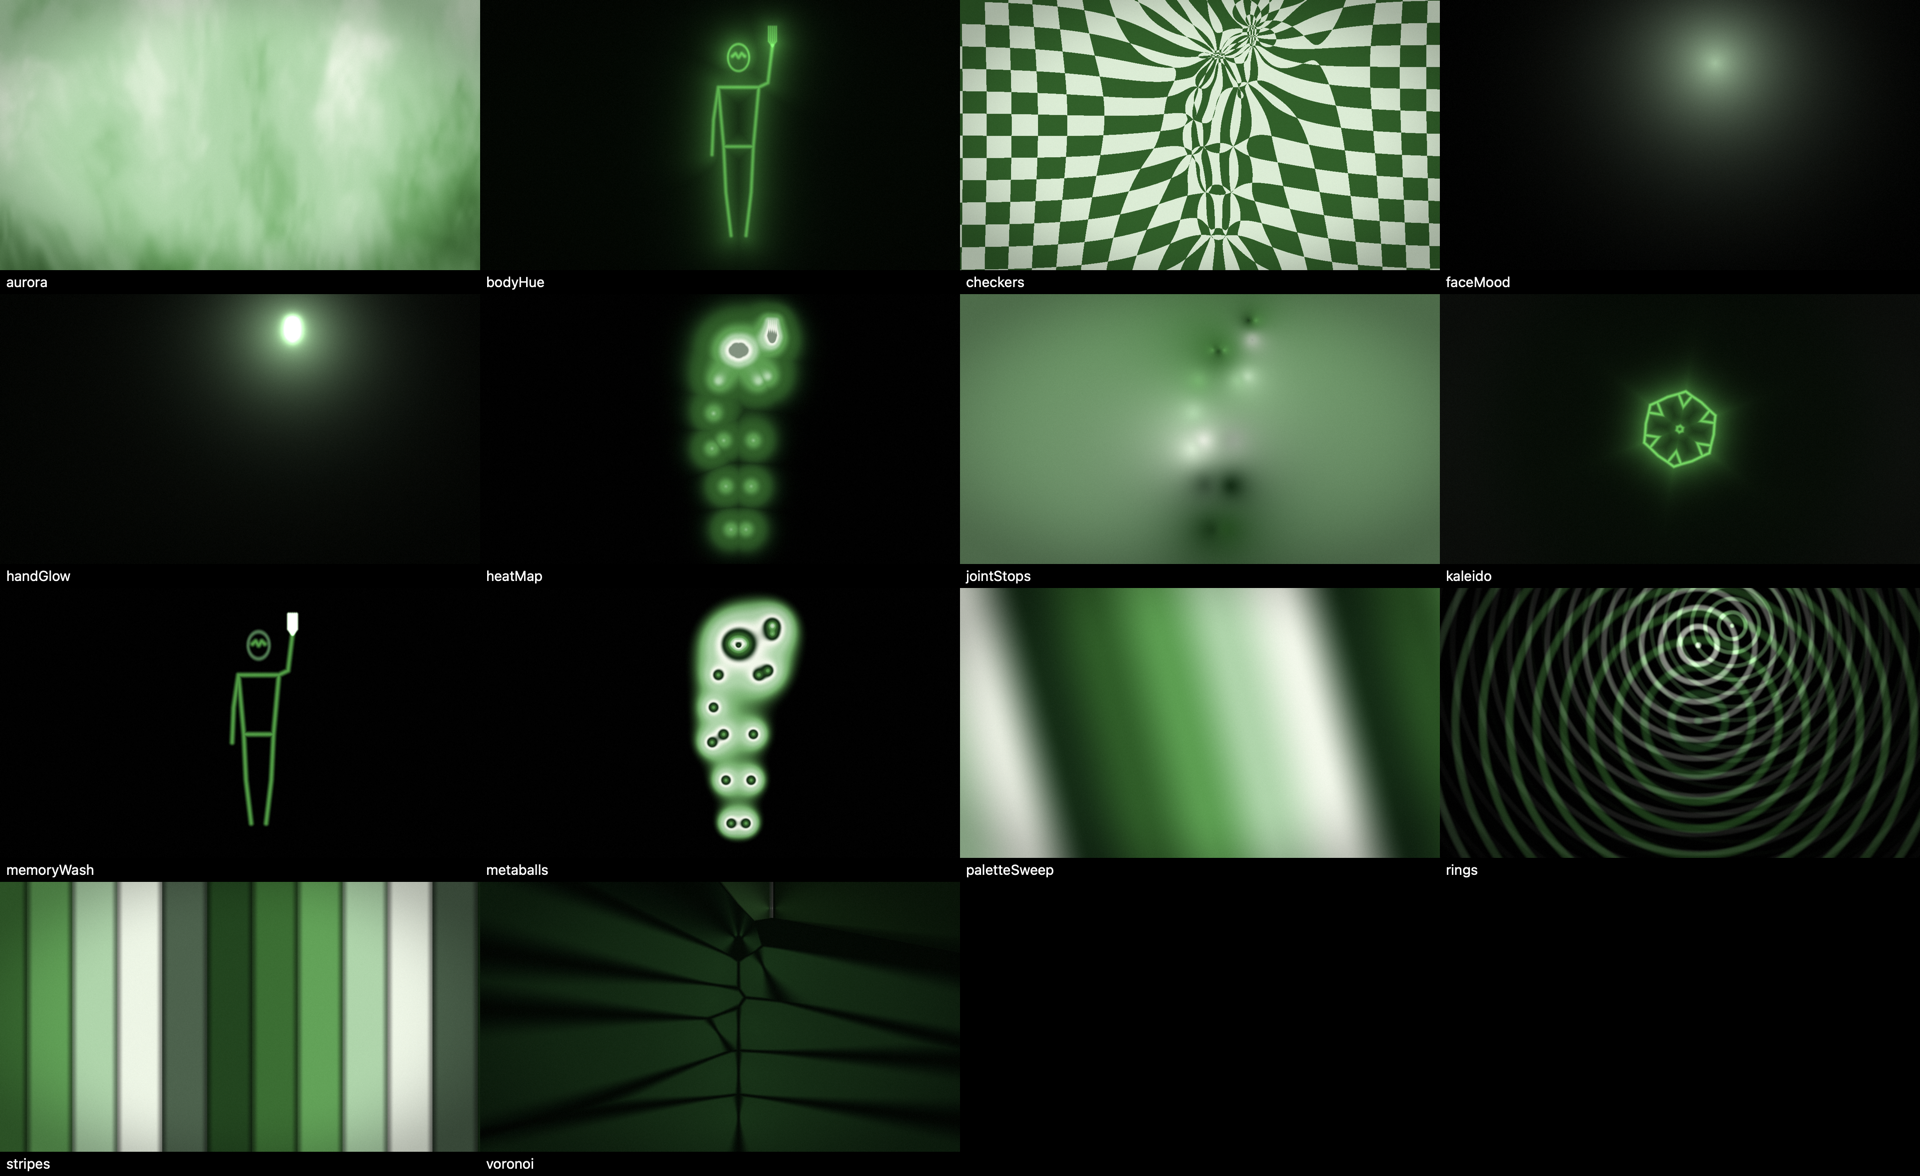
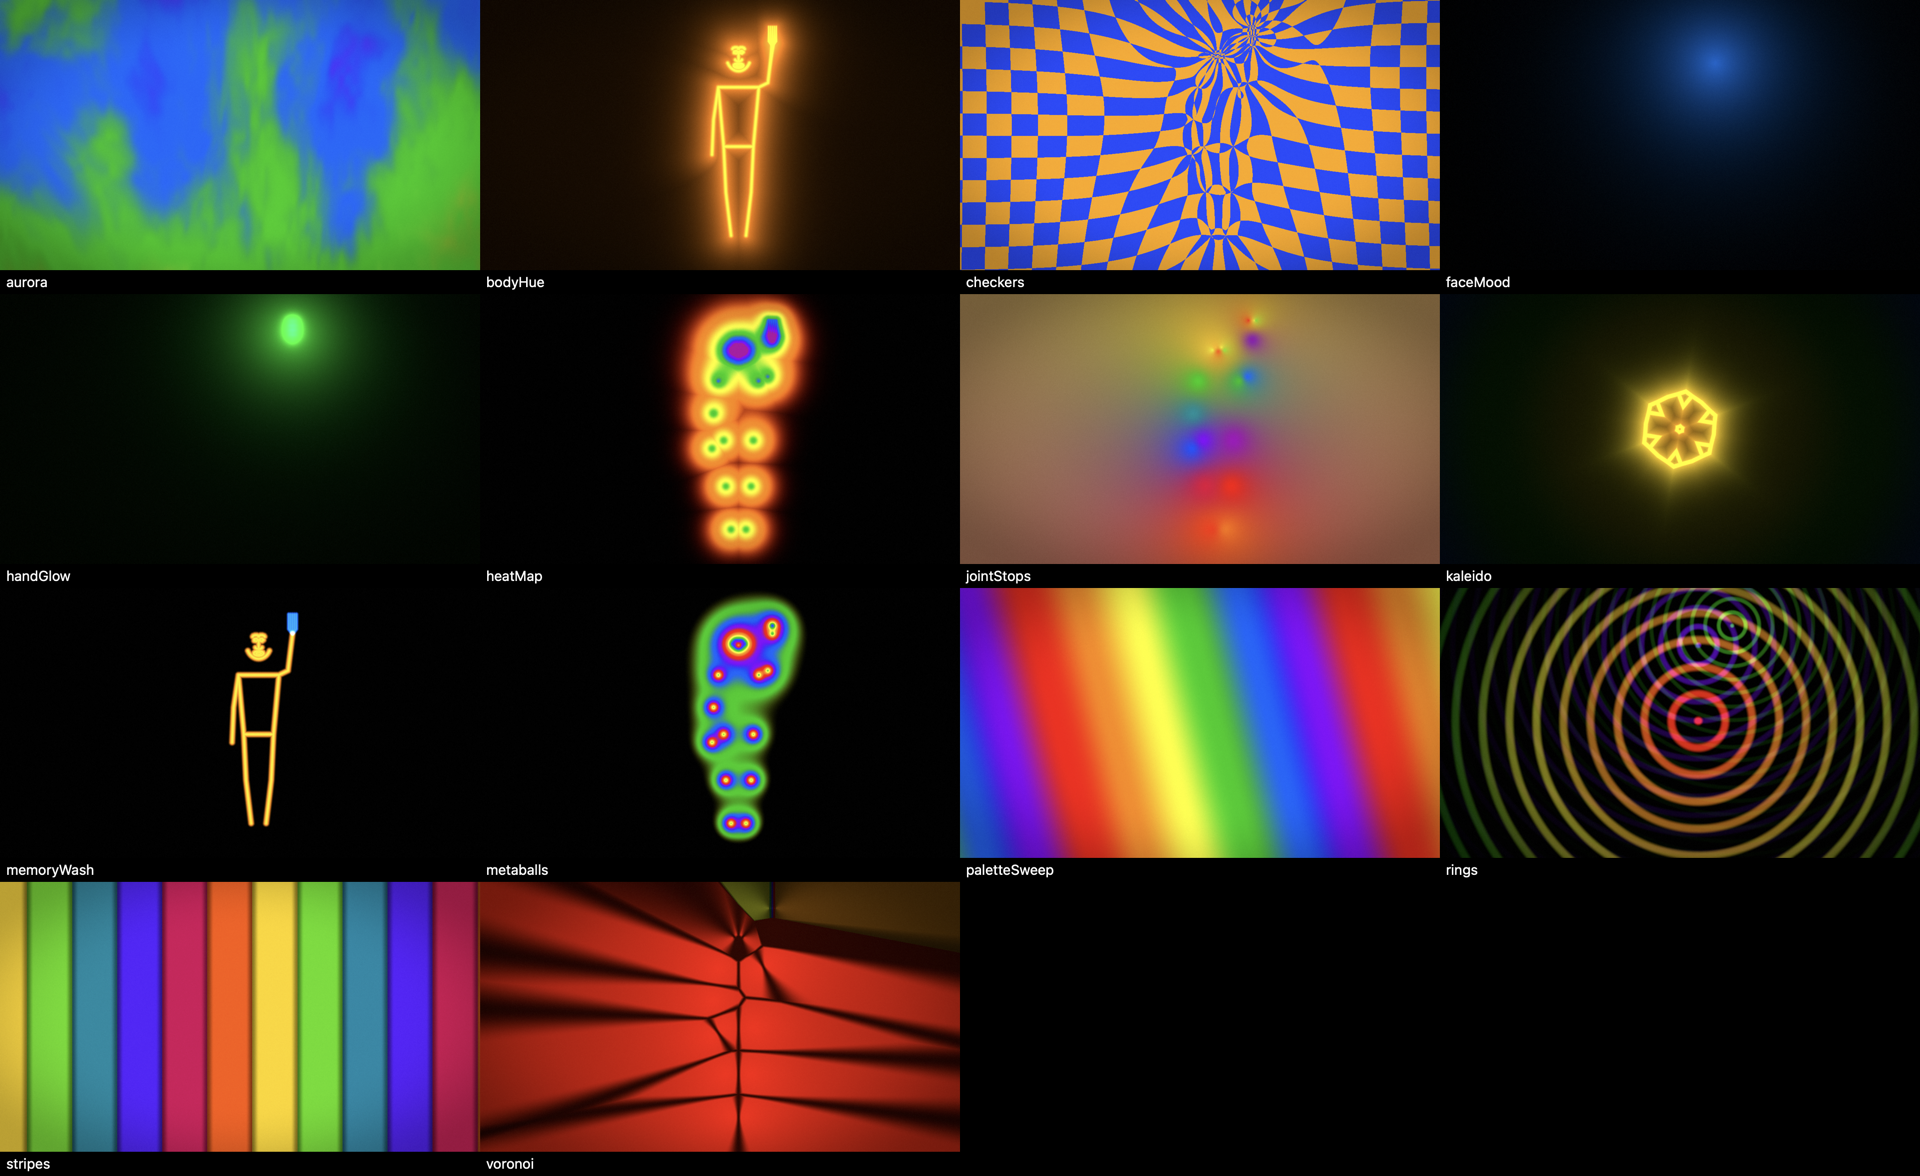
Colours: heads from face landmarks or a circle, not the nose–eye–ear bones
The body skeleton's four head bones read as an "M". Every figure now
draws body bones only, plus a head: the face's landmark features (eyes,
brows, nose, lips, jaw) when Face Landmarks is arriving for that person,
otherwise a circle sized from the ears, eyes or shoulders. The 76
landmarks travel to the GPU in GPUFace; faces attached to a body are
drawn as its head, unattached ones as their own outline. The snapshot
scene carries synthetic landmarks so the landmark path is exercised.

diff --git a/VisualCore/SnapshotRunner.swift b/VisualCore/SnapshotRunner.swift
@@ -10,6 +10,30 @@ import AppKit
 import Foundation
 
 enum SnapshotRunner {
+    /// 76 points in the FaceLandmarks layout, drawn as simple shapes around a nose.
+    static func syntheticLandmarks(around nose: SIMD2<Float>, aspect: Float) -> [SIMD2<Float>] {
+        func ring(_ centre: SIMD2<Float>, _ rx: Float, _ ry: Float, _ count: Int, from: Float = 0, to: Float = 2 * .pi) -> [SIMD2<Float>] {
+            (0..<count).map { i in
+                let a = from + (to - from) * Float(i) / Float(max(count - 1, 1))
+                return centre + SIMD2<Float>(cosf(a) * rx / aspect, sinf(a) * ry)
+            }
+        }
+        let ex: Float = 0.018, ey: Float = -0.02
+        var points: [SIMD2<Float>] = []
+        points += ring(nose + SIMD2(-ex, ey), 0.008, 0.005, 6)                       // left eye 0–5
+        points.append(nose + SIMD2(-ex, ey))                                          // left pupil 6
+        points += ring(nose + SIMD2(ex, ey), 0.008, 0.005, 6)                        // right eye 7–12
+        points.append(nose + SIMD2(ex, ey))                                           // right pupil 13
+        points += ring(nose + SIMD2(-ex, ey - 0.012), 0.012, 0.006, 6, from: .pi, to: 2 * .pi)   // left brow 14–19
+        points += ring(nose + SIMD2(ex, ey - 0.012), 0.012, 0.006, 6, from: .pi, to: 2 * .pi)    // right brow 20–25
+        points += ring(nose + SIMD2(0, 0.03), 0.018, 0.009, 14)                      // outer lips 26–39
+        points += ring(nose + SIMD2(0, 0.03), 0.011, 0.004, 6)                       // inner lips 40–45
+        points += ring(nose + SIMD2(0, 0.008), 0.012, 0.006, 8, from: 0, to: .pi)   // nose 46–53
+        points += (0..<5).map { i in nose + SIMD2(0, -0.02 + Float(i) * 0.007) }      // nose crest 54–58
+        points += ring(nose + SIMD2(0, -0.005), 0.045, 0.055, 17, from: 0.15 * .pi, to: 0.85 * .pi) // jaw 59–75
+        return points
+    }
+
     @MainActor
     static func run(store: VisualStore, folder: URL, width: Int = 1280, height: Int = 720) -> Bool {
         guard let renderer = store.renderer else {
@@ -33,7 +57,8 @@ enum SnapshotRunner {
         scene.hands = [hand]
         scene.persons[0].hands = [hand]
         let nose = scene.persons[0].joints[0]
-        let face = SceneFace(centre: nose, size: SIMD2<Float>(0.14, 0.1), yawDegrees: 12, pitchDegrees: -4, rollDegrees: 2, mouthOpenness: 0.4, landmarks: [], personID: 0)
+        let face = SceneFace(centre: nose, size: SIMD2<Float>(0.14, 0.1), yawDegrees: 12, pitchDegrees: -4, rollDegrees: 2, mouthOpenness: 0.4,
+                             landmarks: Self.syntheticLandmarks(around: nose, aspect: 9.0 / 16.0), personID: 0)
         scene.faces = [face]
         scene.persons[0].face = face
         scene.isAttract = false

diff --git a/VisualCore/Metal/MetalRenderer.swift b/VisualCore/Metal/MetalRenderer.swift
@@ -318,6 +318,13 @@ final class MetalRenderer {
             gpu.roll = face.rollDegrees
             gpu.mouth = face.mouthOpenness
             gpu.person = Float(face.personID ?? -1)
+            if face.landmarks.count >= Int(VC_FACE_LANDMARKS) {
+                gpu.hasLandmarks = 1
+                withUnsafeMutableBytes(of: &gpu.landmarks) { raw in
+                    let p = raw.bindMemory(to: SIMD2<Float>.self)
+                    for j in 0..<Int(VC_FACE_LANDMARKS) { p[j] = face.landmarks[j] }
+                }
+            }
             faces[i] = gpu
         }
     }

diff --git a/VisualCore/Metal/Common.h b/VisualCore/Metal/Common.h
@@ -76,14 +76,78 @@ inline float3 vc_hsv(float h, float s, float v) {
     return v * mix(float3(1.0), clamp(p - 1.0, 0.0, 1.0), s);
 }
 
-// ---- Body edges (JointOrder.body17), for drawing skeletons in shaders.
-constant int2 vc_bodyEdges[16] = {
-    int2(0, 1), int2(0, 2), int2(1, 3), int2(2, 4),
+// ---- Body edges (JointOrder.body17) without the nose–eye–ear bones: the
+// head is drawn separately (landmarks or a circle) because those bones
+// read as an "M" rather than a face.
+constant int2 vc_bodyEdges[12] = {
     int2(5, 6), int2(5, 7), int2(7, 9), int2(6, 8), int2(8, 10),
     int2(5, 11), int2(6, 12), int2(11, 12),
     int2(11, 13), int2(13, 15), int2(12, 14), int2(14, 16)
 };
-constant int vc_bodyEdgeCount = 16;
+constant int vc_bodyEdgeCount = 12;
+
+// ---- Face landmark regions (FaceLandmarks.swift): start, end (exclusive), closed.
+constant int3 vc_faceRegions[9] = {
+    int3(0, 6, 1), int3(7, 13, 1),          // eyes
+    int3(14, 20, 0), int3(20, 26, 0),       // brows
+    int3(26, 40, 1), int3(40, 46, 1),       // lips
+    int3(46, 54, 0), int3(54, 59, 0),       // nose, nose crest
+    int3(59, 76, 0)                         // jaw
+};
+
+/// Distance to the nearest landmark feature line of a face with landmarks.
+inline float vc_landmarkDistance(float2 p, constant GPUFace& face, constant SceneUniforms& u) {
+    float d = 1e9;
+    for (int r = 0; r < 9; r++) {
+        int start = vc_faceRegions[r].x, end = vc_faceRegions[r].y;
+        for (int i = start; i < end - 1; i++) {
+            d = min(d, vc_sdSegment(p, vc_sceneToView(face.landmarks[i], u), vc_sceneToView(face.landmarks[i + 1], u)));
+        }
+        if (vc_faceRegions[r].z == 1) {
+            d = min(d, vc_sdSegment(p, vc_sceneToView(face.landmarks[end - 1], u), vc_sceneToView(face.landmarks[start], u)));
+        }
+    }
+    return d;
+}
+
+/// Where a person's head is and how big, from nose, eyes and ears.
+inline float vc_headCircle(constant GPUPerson& person, constant SceneUniforms& u, thread float2& centre) {
+    float2 sum = 0.0;
+    float n = 0.0;
+    for (int j = 0; j < 5; j++) {
+        if (person.visible[j] < 0.5) continue;
+        sum += vc_sceneToView(person.joints[j], u);
+        n += 1.0;
+    }
+    if (n < 1.0) { centre = float2(-10.0); return 0.0; }
+    centre = sum / n;
+    float radius = 0.0;
+    if (person.visible[3] > 0.5 && person.visible[4] > 0.5) {
+        radius = distance(vc_sceneToView(person.joints[3], u), vc_sceneToView(person.joints[4], u)) * 0.6;
+    } else if (person.visible[1] > 0.5 && person.visible[2] > 0.5) {
+        radius = distance(vc_sceneToView(person.joints[1], u), vc_sceneToView(person.joints[2], u)) * 1.3;
+    } else if (person.visible[5] > 0.5 && person.visible[6] > 0.5) {
+        radius = distance(vc_sceneToView(person.joints[5], u), vc_sceneToView(person.joints[6], u)) * 0.28;
+    }
+    return max(radius, 0.015);
+}
+
+/// Distance to a person's head: their face's landmark features when Face
+/// Landmarks is arriving for them, otherwise a circle.
+inline float vc_headDistance(float2 p, constant GPUPerson& person, constant SceneUniforms& u, constant GPUFace* faces) {
+    for (int i = 0; i < u.faceCount; i++) {
+        if (faces[i].person == person.id && faces[i].hasLandmarks > 0.5) {
+            return vc_landmarkDistance(p, faces[i], u);
+        }
+    }
+    float2 centre;
+    float radius = vc_headCircle(person, u, centre);
+    if (radius <= 0.0) return 1e9;
+    return abs(distance(p, centre) - radius);
+}
+
+/// A face on its own (no body): landmark features, or the box's ellipse.
+inline float vc_faceOutlineDistance(float2 p, constant GPUFace& face, constant SceneUniforms& u);
 
 /// Distance from view point `p` to the nearest visible bone of a person.
 inline float vc_skeletonDistance(float2 p, constant GPUPerson& person, constant SceneUniforms& u) {
@@ -125,13 +189,26 @@ inline float vc_faceRingDistance(float2 p, constant GPUFace& face, constant Scen
     return (length(q) - 1.0) * min(halfSize.x, halfSize.y);
 }
 
-/// Distance to the nearest hand bone or face ring of everyone – the
-/// "extras" a body-only look can add for free.
+inline float vc_faceOutlineDistance(float2 p, constant GPUFace& face, constant SceneUniforms& u) {
+    return face.hasLandmarks > 0.5 ? vc_landmarkDistance(p, face, u) : abs(vc_faceRingDistance(p, face, u));
+}
+
+/// Distance to the nearest hand bone, or the outline of a face that is not
+/// attached to a tracked body (attached faces are drawn as their person's
+/// head) – the "extras" a body-only look can add for free.
 inline float vc_extrasDistance(float2 p, constant SceneUniforms& u, constant GPUHand* hands, constant GPUFace* faces) {
     float d = 1e9;
     for (int i = 0; i < u.handCount; i++) d = min(d, vc_handSkeletonDistance(p, hands[i], u));
-    for (int i = 0; i < u.faceCount; i++) d = min(d, abs(vc_faceRingDistance(p, faces[i], u)));
+    for (int i = 0; i < u.faceCount; i++) {
+        if (faces[i].person >= 0.0) continue;
+        d = min(d, vc_faceOutlineDistance(p, faces[i], u));
+    }
     return d;
+}
+
+/// The whole figure: body bones plus the head.
+inline float vc_figureDistance(float2 p, constant GPUPerson& person, constant SceneUniforms& u, constant GPUFace* faces) {
+    return min(vc_skeletonDistance(p, person, u), vc_headDistance(p, person, u, faces));
 }
 
 /// Distance to the nearest visible joint of a person.

diff --git a/VisualCore/Metal/ShaderTypes.h b/VisualCore/Metal/ShaderTypes.h
@@ -19,6 +19,7 @@
 #define VC_MAX_FACES 4
 #define VC_MAX_PARAMS 16
 #define VC_MAX_PALETTE 8
+#define VC_FACE_LANDMARKS 76
 
 typedef struct {
     vector_float2 joints[VC_BODY_JOINTS];
@@ -51,7 +52,9 @@ typedef struct {
     float roll;
     float mouth;
     float person;
-    float _pad[3];
+    float hasLandmarks;   // 1 when `landmarks` holds the 76 points
+    float _pad[2];
+    vector_float2 landmarks[VC_FACE_LANDMARKS];
 } GPUFace;
 
 typedef struct {
